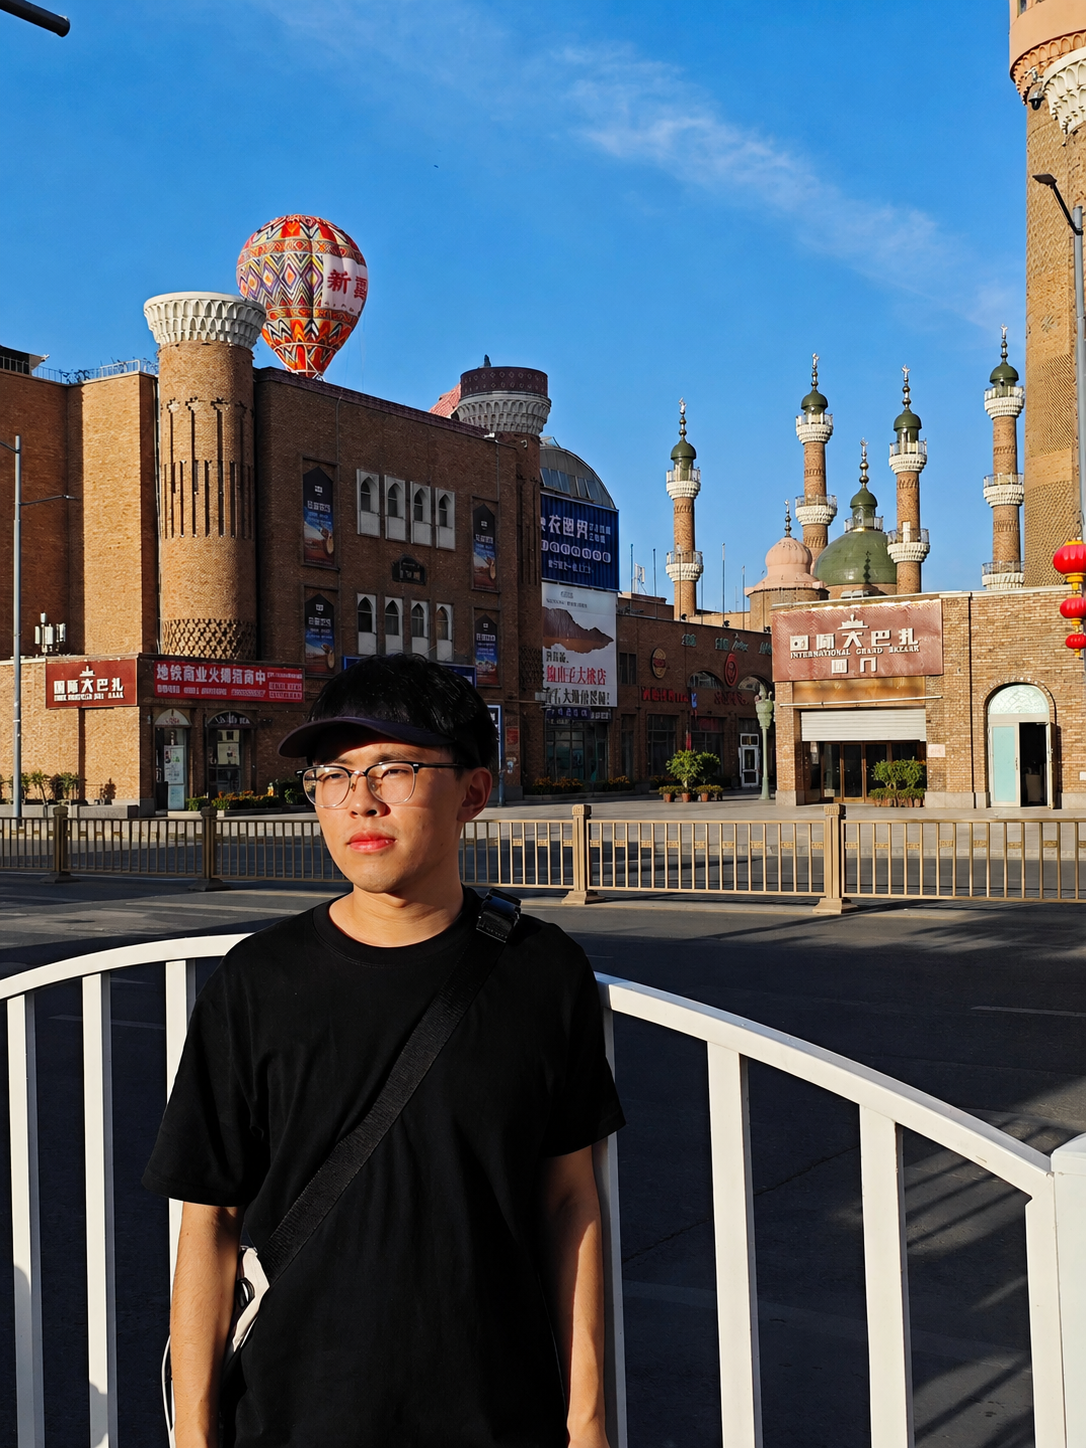
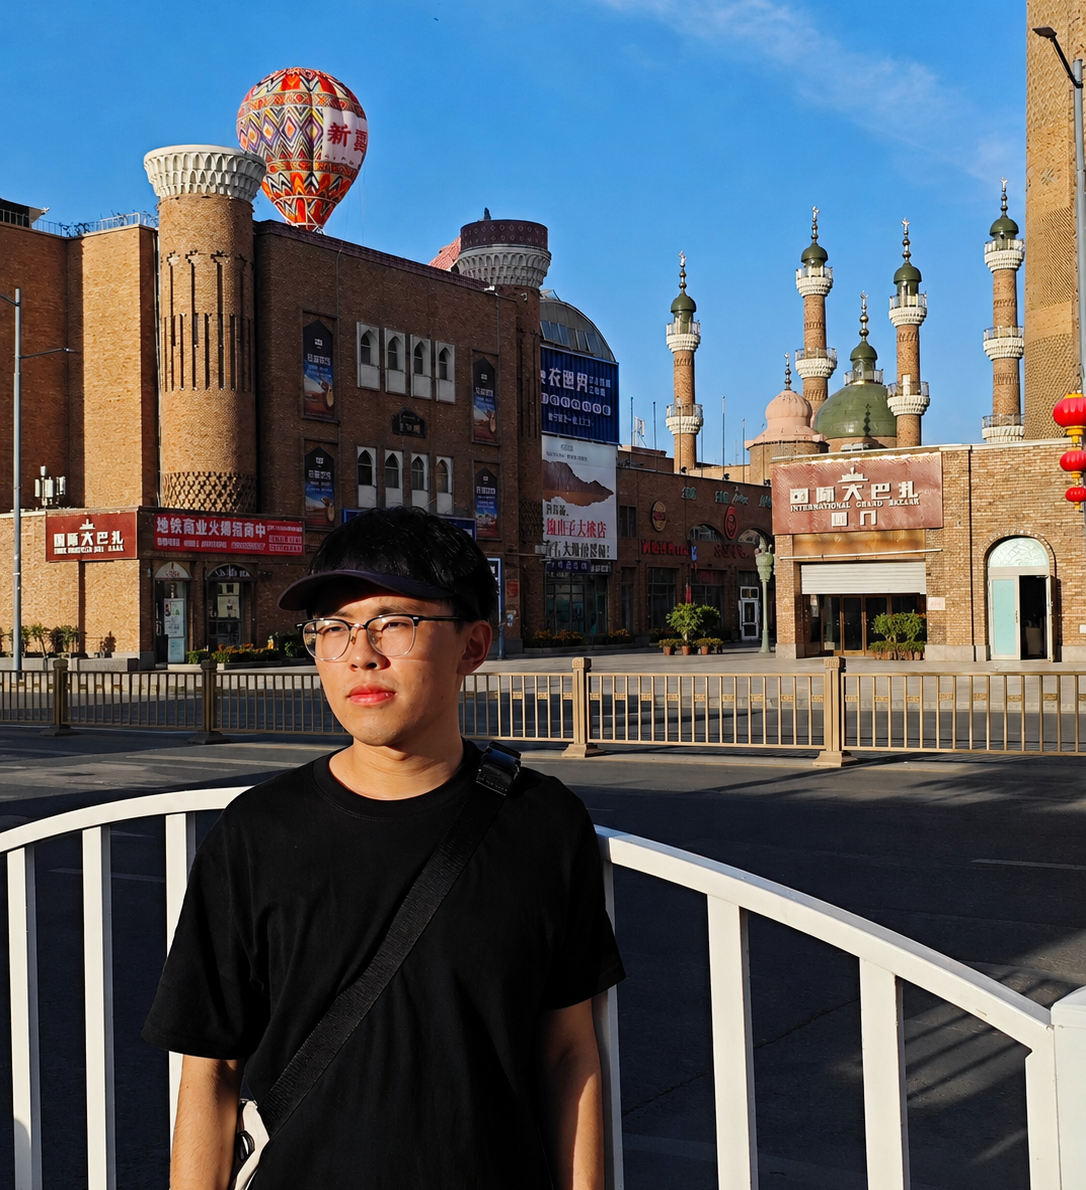
update

diff --git a/index.html b/index.html
@@ -432,7 +432,6 @@
 
     .desc a:hover {
       color: var(--text);
-      font-weight: 450;
       text-decoration: underline;
       text-decoration-color: var(--accent);
     }
@@ -726,7 +725,7 @@
             </div>
 
             <div class="card">
-              <div class="figure"><img src="./assets/CoordinateMotion.gif" alt="Coordinate Motion gif" /></div>
+              <div class="figure"><img src="./assets/CoordinateMotion.gif" alt="CoordinateMotion gif" /></div>
               <div>
                 <h2>Computational Design of Coordinate-Motion Assemblies</h2>
                 <p class="desc">